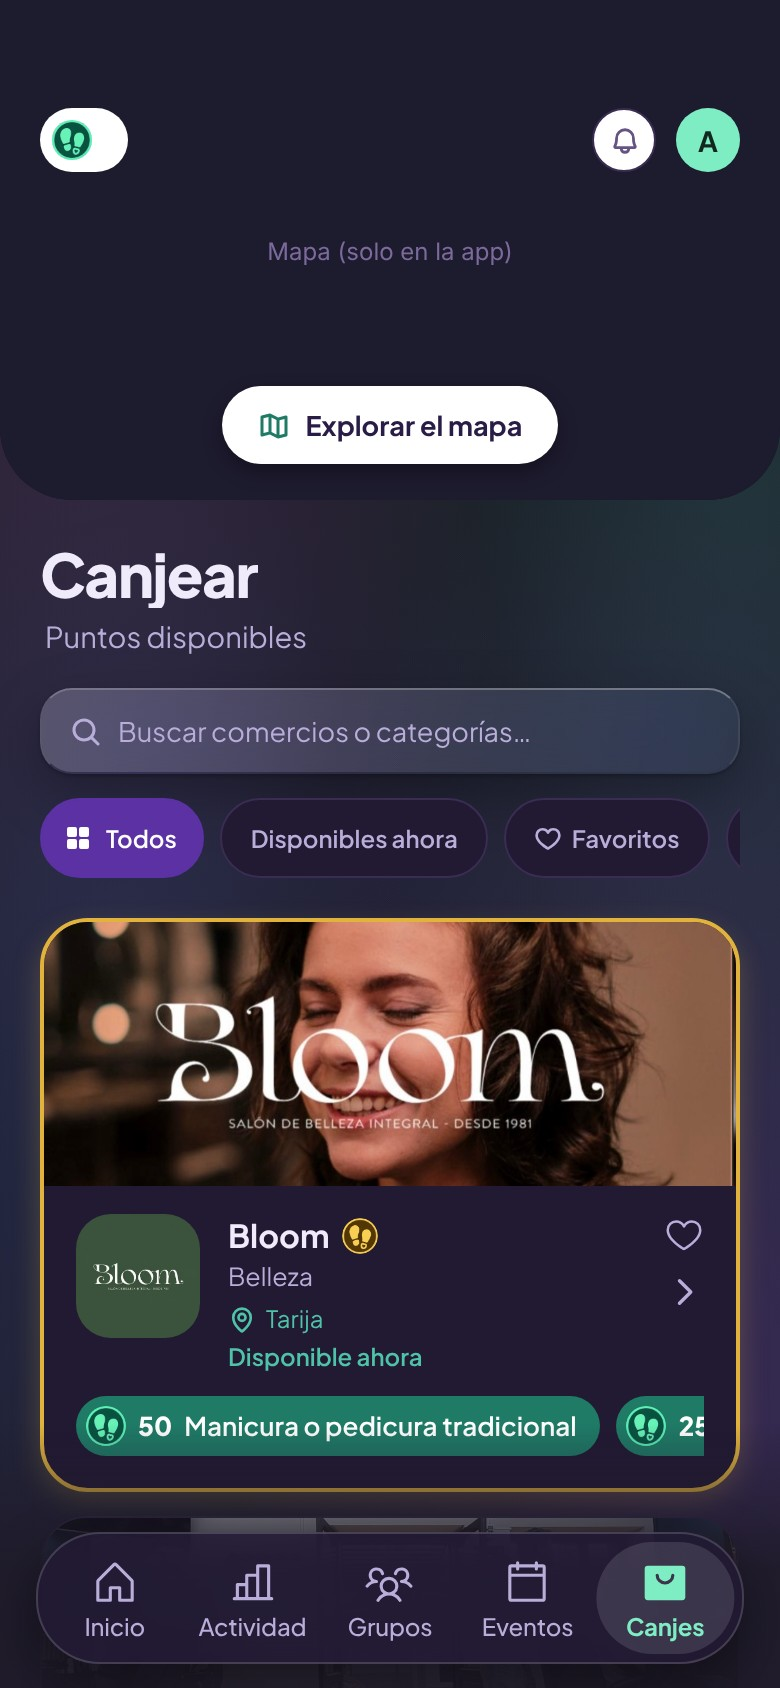
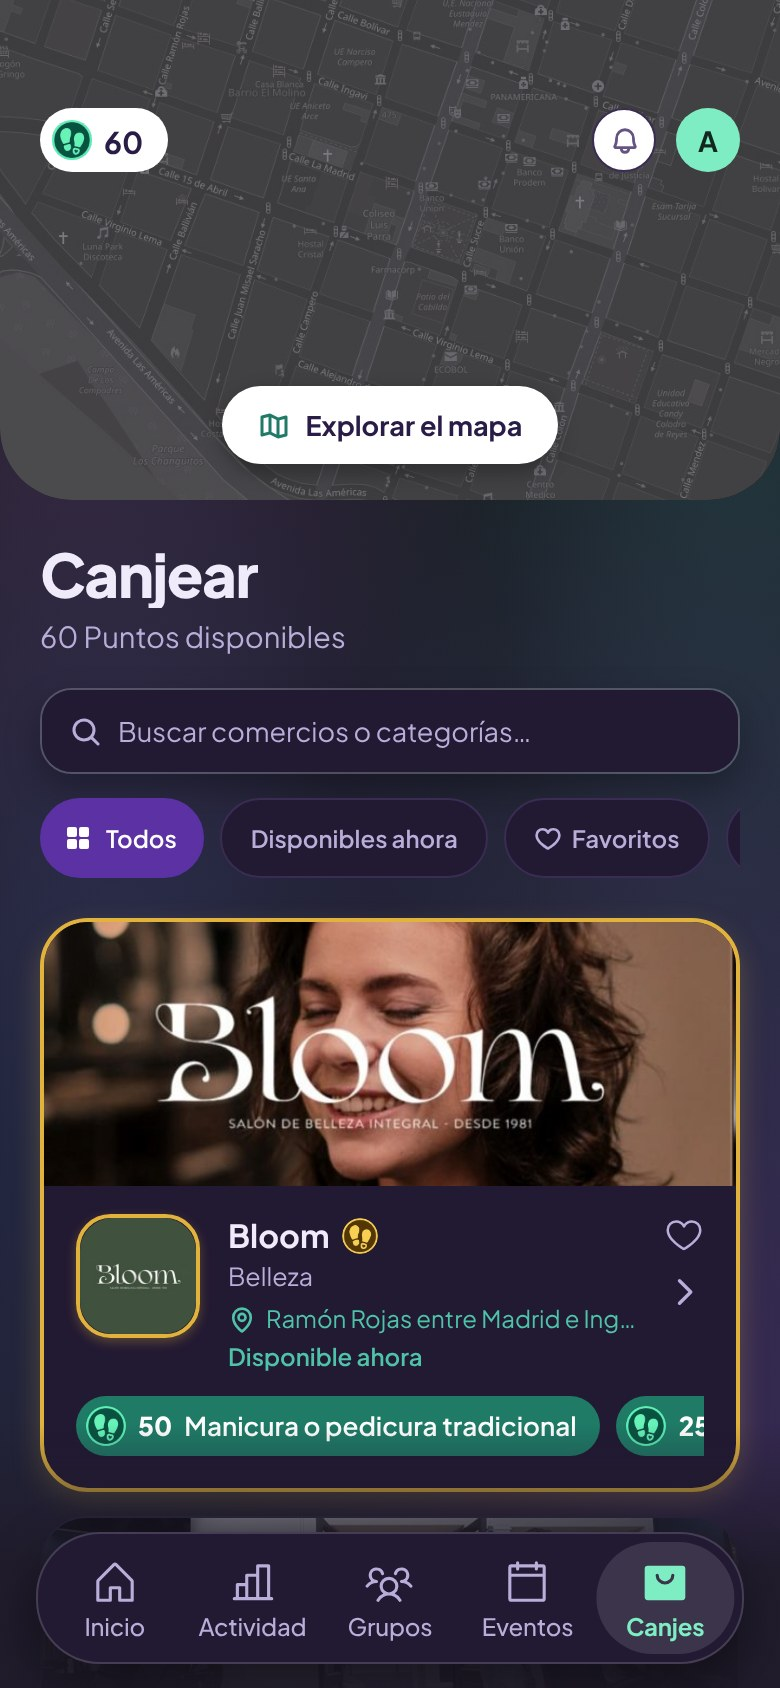
Web: 'Así se ve Camina' solo en modo oscuro, sin interruptor y con capturas nuevas
Se quita el interruptor claro/oscuro de la barra. Las 5 capturas de la galería se regeneran en modo oscuro (Inicio, Canjes, ficha de Fripap's, Grupos, Actividad) con los premios y puntos reales de hoy y el mapa en oscuro. Se corrige el bug que mostraba la captura clara y la oscura apiladas dentro del marco. Se agrega la nota de que pasos y grupos son de ejemplo.

Claude-Session: https://claude.ai/code/session_01EnioE2hUeYrmqbLSQLAniC

diff --git a/apps/partner/src/components/landing/shared.tsx b/apps/partner/src/components/landing/shared.tsx
@@ -4,7 +4,6 @@ import { PLANS, WHATSAPP_NUMBER, LANZAMIENTO, LANZAMIENTO_NOTA } from '@/lib/pla
 import { InView, Kinetic, Counter, Parallax } from './Motion';
 import { LOCALES } from './locales';
 import RealMap from './RealMap';
-import CapToggle from './CapToggle';
 
 export const WA = (texto: string) => `https://wa.me/${WHATSAPP_NUMBER}?text=${encodeURIComponent(texto)}`;
 export const WA_COMERCIO = WA('Hola! Tengo una duda sobre cómo sumar mi comercio a Camina.');
@@ -25,21 +24,18 @@ export const CAP = {
   retos: '/web/cap/retos.jpg',
 };
 
-// Capturas con versión en modo oscuro (se muestran con el interruptor de la barra).
-const CAP_DARK: Record<string, string> = {
-  [CAP.canjes]: '/web/cap/canjes-dark.jpg',
+// "Así se ve Camina" muestra la app solo en modo oscuro.
+const CAP_DARK = {
+  inicio: '/web/cap/inicio-dark.jpg',
+  canjes: '/web/cap/canjes-dark.jpg',
+  fripaps: '/web/cap/ficha-fripaps-dark.jpg',
+  grupos: '/web/cap/grupos-dark.jpg',
+  actividad: '/web/cap/actividad-dark.jpg',
 };
 
 type ShotProps = { src: string; alt: string; width: number; height: number; sizes?: string; priority?: boolean };
-export function Shot({ src, ...rest }: ShotProps) {
-  const dark = CAP_DARK[src];
-  if (!dark) return <Image src={src} {...rest} />;
-  return (
-    <>
-      <Image className="cap-l" src={src} {...rest} />
-      <Image className="cap-d" src={dark} {...rest} />
-    </>
-  );
+export function Shot(props: ShotProps) {
+  return <Image {...props} />;
 }
 
 export function Nav({ activo }: { activo: 'gente' | 'comercios' }) {
@@ -54,7 +50,6 @@ export function Nav({ activo }: { activo: 'gente' | 'comercios' }) {
           <Link href="/" aria-current={activo === 'gente' ? 'page' : undefined}>Para vos</Link>
           <Link href="/comercios" aria-current={activo === 'comercios' ? 'page' : undefined}>Para comercios</Link>
         </nav>
-        <CapToggle />
         <Link href="/login" className="lp-login">Ingresar al panel</Link>
       </div>
     </header>
@@ -195,11 +190,11 @@ export function Locales() {
 
 export function Galeria() {
   const pant = [
-    ['Tu día en un vistazo', 'Pasos, puntos y los locales cerca tuyo.', CAP.inicio],
-    ['Canjear', 'Buscá comercios y mirá sus premios.', CAP.canjes],
-    ['La ficha del local', 'Fotos, horarios, redes y premios.', CAP.fripaps],
-    ['Grupos', 'Caminá en equipo y sumá con tus amigos.', CAP.grupos],
-    ['Actividad', 'Tu semana, tu meta y tu racha.', CAP.actividad],
+    ['Tu día en un vistazo', 'Pasos, puntos y los locales cerca tuyo.', CAP_DARK.inicio],
+    ['Canjear', 'Buscá comercios y mirá sus premios.', CAP_DARK.canjes],
+    ['La ficha del local', 'Fotos, horarios, redes y premios.', CAP_DARK.fripaps],
+    ['Grupos', 'Caminá en equipo y sumá con tus amigos.', CAP_DARK.grupos],
+    ['Actividad', 'Tu semana, tu meta y tu racha.', CAP_DARK.actividad],
   ] as const;
   return (
     <section className="lp-sec alt" id="app">
@@ -212,6 +207,7 @@ export function Galeria() {
           </figure>
         ))}
       </div>
+      <p className="wrap gal-nota">Pasos, puntos y grupos son datos de ejemplo. Los locales y sus premios son reales.</p>
     </section>
   );
 }

diff --git a/apps/partner/src/components/landing/landing.css b/apps/partner/src/components/landing/landing.css
@@ -277,9 +277,4 @@
 .fid-steps b{display:block;color:#fff;font-size:17px}
 
 /* Interruptor claro/oscuro de las capturas de la app */
-.cap-toggle { display: inline-flex; align-items: center; gap: 6px; border: 1px solid rgba(124, 66, 190, 0.3); background: transparent; color: inherit; font: inherit; font-size: 13px; font-weight: 600; border-radius: 999px; padding: 6px 12px; cursor: pointer; }
-.cap-toggle:hover { background: rgba(124, 66, 190, 0.08); }
-.cap-d { display: none; }
-:root[data-cap='dark'] .cap-l { display: none; }
-:root[data-cap='dark'] .cap-d { display: block; }
-@media (max-width: 640px) { .cap-toggle span:last-child { display: none; } }
+.gal-nota{margin-top:6px;font-size:13px;color:var(--muted)}
